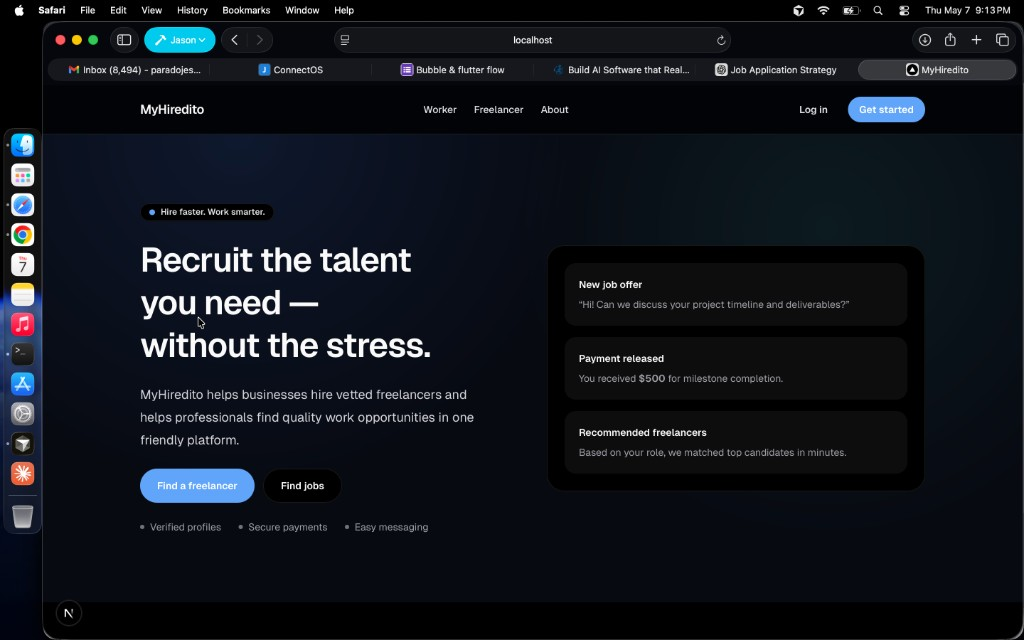
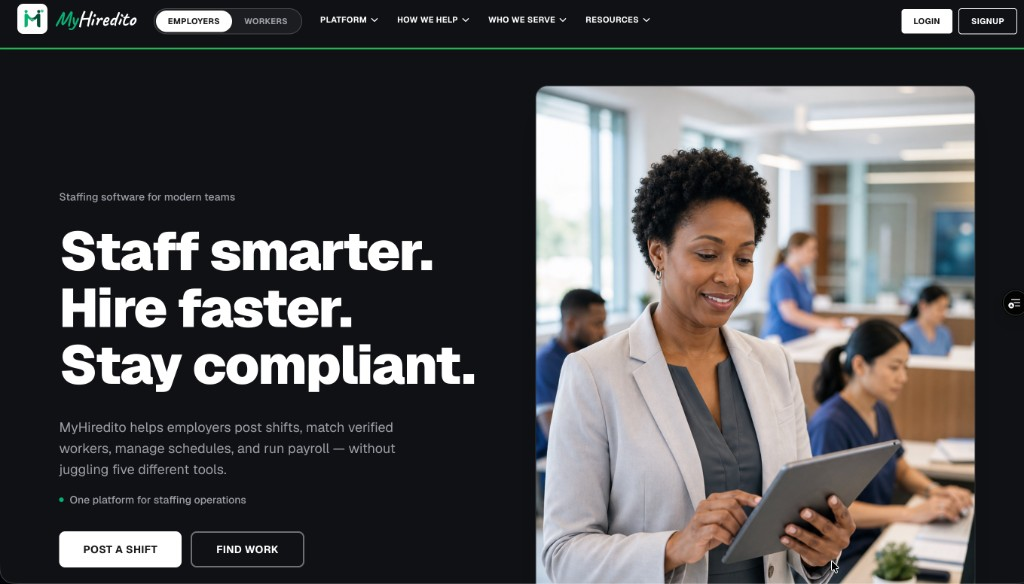
update

diff --git a/src/app/projects/[slug]/page.tsx b/src/app/projects/[slug]/page.tsx
@@ -421,6 +421,92 @@ export default async function ProjectDetailPage({ params }: Props) {
                   payments, and support from a dedicated dashboard.
                 </p>
               </>
+            ) : slug === "myhiredito" ? (
+              <>
+                <p className="text-lg font-medium text-zinc-950 dark:text-zinc-50">
+                  MyHiredito is a staffing software platform built for modern
+                  teams—helping employers post shifts, match verified workers,
+                  manage schedules, and run payroll without juggling five
+                  different tools.
+                </p>
+
+                <h3 className="mt-2 text-lg font-semibold text-zinc-950 dark:text-zinc-50">
+                  Two sides, one platform
+                </h3>
+                <p>
+                  The landing experience splits cleanly between{" "}
+                  <strong>Employers</strong> and <strong>Workers</strong>. Employers
+                  get a focused path to staff smarter, hire faster, and stay
+                  compliant; workers can discover open shifts and apply from the
+                  same product with a single toggle.
+                </p>
+                <ul className="ml-5 list-disc space-y-1.5">
+                  <li>
+                    <strong>Employers</strong> — post shifts, review matched
+                    candidates, manage schedules, and handle payroll in one
+                    dashboard
+                  </li>
+                  <li>
+                    <strong>Workers</strong> — browse available shifts, apply
+                    quickly, and track assignments from a worker-first view
+                  </li>
+                </ul>
+
+                <h3 className="mt-2 text-lg font-semibold text-zinc-950 dark:text-zinc-50">
+                  What it solves
+                </h3>
+                <p>
+                  Traditional staffing often means spreadsheets, separate payroll
+                  tools, and manual compliance checks. MyHiredito consolidates
+                  shift posting, worker verification, scheduling, and payroll
+                  into a single staffing operations platform—so teams can fill
+                  roles faster while keeping processes auditable and compliant.
+                </p>
+
+                <h3 className="mt-2 text-lg font-semibold text-zinc-950 dark:text-zinc-50">
+                  Employer dashboard
+                </h3>
+                <p>
+                  Once signed in, employers land on a home dashboard with job
+                  posting, applicant review, messaging, worker management,
+                  billing, and reports—all in one nav. A guided onboarding flow
+                  verifies the business (government ID, business certificate, and
+                  company details) before unlocking job posting, with clear
+                  progress tracking and hiring insights along the way.
+                </p>
+
+                <div className="relative mt-6 aspect-[16/10] w-full overflow-hidden rounded-2xl border border-white/10 bg-zinc-900 shadow-[0_22px_60px_-40px_rgba(0,0,0,0.85)]">
+                  <Image
+                    src="/images/projects/myhiredito-dashboard.png"
+                    alt="MyHiredito employer dashboard with onboarding checklist and hiring feed"
+                    fill
+                    className="object-cover object-top"
+                    sizes="(min-width: 1024px) 48rem, 100vw"
+                  />
+                </div>
+
+                <h3 className="mt-2 text-lg font-semibold text-zinc-950 dark:text-zinc-50">
+                  Key features
+                </h3>
+                <ul className="ml-5 list-disc space-y-1.5">
+                  <li>Shift posting and worker matching</li>
+                  <li>Verified worker profiles and scheduling</li>
+                  <li>Employer onboarding with ID and business verification</li>
+                  <li>Applicant tracking, messaging, billing, and reports</li>
+                  <li>Payroll and compliance workflows in one place</li>
+                  <li>Employer / worker dual experience with clear CTAs</li>
+                </ul>
+
+                <h3 className="mt-2 text-lg font-semibold text-zinc-950 dark:text-zinc-50">
+                  Outcome
+                </h3>
+                <p>
+                  The result is a staffing platform that feels lighter than
+                  stitching together point solutions: employers get one place to
+                  run operations, and workers get a straightforward path from
+                  discovery to booked shifts.
+                </p>
+              </>
             ) : slug === "best-coast-tours" ? (
               <>
                 <p className="text-lg font-medium text-zinc-950 dark:text-zinc-50">

diff --git a/src/lib/site.ts b/src/lib/site.ts
@@ -273,6 +273,17 @@ export const site = {
       repoHref: "https://github.com/jnparado/kamashoetra",
     },
     {
+      title: "MyHiredito",
+      description:
+        "Staffing platform for modern teams—employers post shifts, match verified workers, manage schedules, and run payroll in one place instead of juggling multiple tools.",
+      tags: ["Staffing", "Workforce", "Scheduling", "Payroll", "Web App"],
+      imageSrc: "/images/projects/myhiredito-hero.png",
+      imageAlt:
+        "MyHiredito employer homepage — Staff smarter, Hire faster, Stay compliant",
+      slug: "myhiredito",
+      repoHref: "https://github.com/jnparado/myhiredito",
+    },
+    {
       title: "Best Coast Tours",
       description:
         "Smart travel booking platform where customers explore curated tours, customize itineraries, and book seamless travel experiences while admins manage bookings, schedules, and dynamic cost calculations.",
